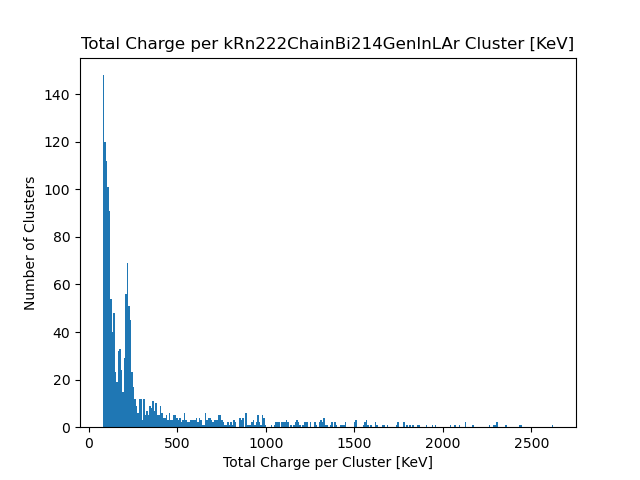
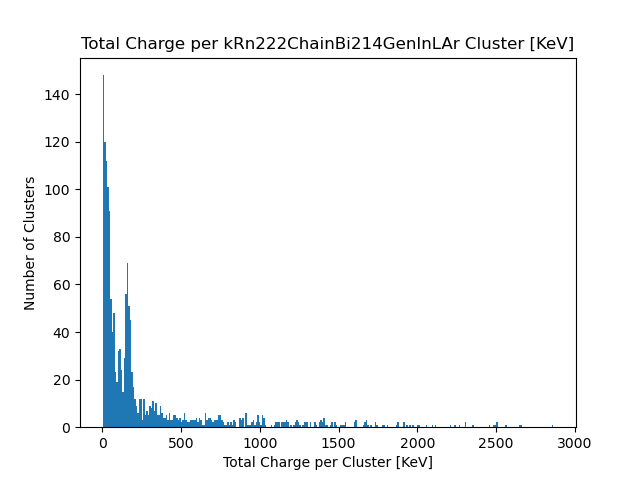
checkpoint: fit to all beta ADC plots

diff --git a/app/cluster_analyse.py b/app/cluster_analyse.py
@@ -10,6 +10,7 @@
 import numpy as np
 #import ROOT
 import matplotlib.pyplot as plt
+from scipy.stats import linregress
 import time
 import os
 import argparse
@@ -105,47 +106,117 @@ labels = {
     2: "kAr39GenInLAr", #beta
     3: "kKr85GenInLAr", #beta
     4: "kAr42GenInLAr", #beta
-    5: "kK42From42ArGenInLAr", #beta 
+    5: "kK42From42ArGenInLAr", #beta  3.525516MeV
     6: "kRn222ChainRn222GenInLAr", #alpha 5.59031MeV
-    7: "kRn222ChainPo218GenInLAr", #alpha .02%beta  6.11468MeV
+    7: "kRn222ChainPo218GenInLAr", #alpha 6.11468MeV
     8: "kRn222ChainPb214GenInLAr", #beta 1.0189 MeV
-    9: "kRn222ChainBi214GenInLAr",  #https://periodictable.com/Isotopes/083.214/index.full.dm.html
-    10: "kRn222ChainPb210GenInLAr",
-    11: "kK40GenInCPA",
+    9: "kRn222ChainBi214GenInLAr",  #beta 3.2697MeV
+    10: "kRn222ChainPb210GenInLAr", #beta 63.486keV
+    11: "kK40GenInCPA", #89.28%	β-	1.31107MeV	40Ca ------ 10.72%	β+	482.491keV	40Ar
     12: "kU238ChainGenInCPA",
-    13: "kK42From42ArGenInCPA",
-    14: "kRn222ChainPo218GenInCPA",
-    15: "kRn222ChainPb214GenInCPA",
-    16: "kRn222ChainBi214GenInCPA",
-    17: "kRn222ChainPb210GenInCPA",
-    18: "kRn222ChainFromBi210GenInCPA",
-    19: "kCo60GenInAPA",
+    13: "kK42From42ArGenInCPA", #beta 598.88keV
+    14: "kRn222ChainPo218GenInCPA",#alpha .02%beta  6.11468MeV
+    15: "kRn222ChainPb214GenInCPA",#beta 1.0189 MeV
+    16: "kRn222ChainBi214GenInCPA", #beta 3.2697MeV
+    17: "kRn222ChainPb210GenInCPA", #beta 63.486keV
+    18: "kRn222ChainFromBi210GenInCPA", #beta 1.161292MeV
+    19: "kCo60GenInAPA", #beta 2.823067MeV
     20: "kU238ChainGenInAPA",
     21: "kRn222ChainGenInPDS",
     22: "kNeutronGenInRock"
     }
 
-charge_lists = {key: [] for key in labels}
+'''
+new dic that matches background with its respective maximum decay energy 
+format: label: [decay type, decay energy [MeV]]
+beta = 0
+aplha = 1
+dont use = 2
+'''
+background_max_energy = {  
+    -1: [2,1 ],
+    0: [2,1 ],
+    1: [2,1 ],
+    2: [0,.565], #beta
+    3: [0,.68706], #beta
+    4: [0,.59888], #beta
+    5: [0,3.525516], #beta 
+    6: [1, 5.59031],  # alpha (MeV)
+    7: [1, 6.11468],  # alpha (MeV)
+    8: [0, 1.0189],   # beta (MeV)
+    9: [0, 3.2697],   # beta (MeV)
+    10: [0, 63.486e-3], # beta (MeV)
+    11: [0, 1.31107], # beta (MeV)
+    12: [2,1 ],       # No specified type or energy
+    13: [0, 598.88e-3], # beta (MeV)
+    14: [1, 6.11468],  # alpha (MeV)
+    15: [0, 1.0189],   # beta (MeV)
+    16: [0, 3.2697],   # beta (MeV)
+    17: [0, 63.486e-3], # beta (MeV)
+    18: [0, 1.161292],  # beta (MeV)
+    19: [0, 2.823067], #beta
+    20: [2,1 ],
+    21: [2,1 ],
+    22: [2,1 ]
+}
+
+charge_lists = {key: [] for key in labels} #lists of sum of charges in each cluster, for histograms
+max_charge = {key: 0 for key in labels} #max charge associated with each background, for best fit line
 true_labels = []
 total_charges = []
+
 for cluster in clusters:
     charge_sums = {key: 0 for key in labels}
     total_charge_sum = 0
+    
+    #summing ADC integral for each TP set in cluster
     for tp in cluster.tps_:
         charge_sums[cluster.true_label_] += tp['adc_integral']
         total_charge_sum = total_charge_sum + tp['adc_integral']
+    
+    #checking to see if new cluster charge is max    
+    if (charge_sums[cluster.true_label_] > max_charge[cluster.true_label_]):
+        max_charge[cluster.true_label_] = charge_sums[cluster.true_label_] 
 
     charge_lists[cluster.true_label_].append(charge_sums[cluster.true_label_])
     true_labels.append(cluster.true_label_)
     total_charges.append(total_charge_sum)
     
         
+#create two lists for beta and alpha decay background endpoints for linear fit
+beta_adc = []
+beta_MeV = []
+alpha_adc = []
+alpha_MeV = []
+for key in background_max_energy:
+    if background_max_energy[key][0] == 0:
+        beta_adc.append(max_charge[key])
+        beta_MeV.append(background_max_energy[key][1])
+    elif background_max_energy[key][0] == 1:
+        alpha_adc.append(max_charge[key])
+        alpha_MeV.append(background_max_energy[key][1])
+        
 
+#linear fit
+
+slope, intercept, r_value, p_value, std_err = linregress(beta_adc, beta_MeV)
+
+fig0 = plt.figure()
+
+
+plt.scatter(beta_adc, beta_MeV, label='Data')
+plt.plot(beta_adc, [slope * x + intercept for x in beta_adc], color='red', label='Linear fit')
+plt.xlabel('Beta ADC')
+plt.ylabel('Beta MeV')
+plt.legend()
+fig0.savefig('plots/beta_fit.png')
+plt.clf()
 
 #CONVERT ADC to Energy (KeV) via linear interpolation
 
 
-#energies from https://periodictable.com/Isotopes/018.39/index.dm.html
+#decay energies from https://periodictable.com/Isotopes/018.39/index.dm.html
+
 #point 1 is endpoint of Ar39 decay
 x1 = 41100 #ADC
 y1 = 565 #KeV  
@@ -153,7 +224,7 @@ y1 = 565 #KeV
 x2 = 50000 #ADC
 y2 = 687.06 #KeV
 
-m = (y2-y1)/(x2-x1)
+m = (y2-y1)/(x2-x1) #slope 
 
 def adc_to_energy(adc):
     return m*(adc-x1)+y1
@@ -206,9 +277,6 @@ bin_edges = [i - 0.5 for i in range(min(true_labels), max(true_labels) + 2)]
 
 
 colors = ['blue', 'orange', 'green', 'red', 'black', 'blue', 'orange', 'gray', 'blue', 'green', 'black', 'yellow', 'black', 'blue', 'orange', 'green', 'red', 'blue', 'brown', 'green', 'gray', 'olive', 'yellow']
-
-
-
 
 
 
